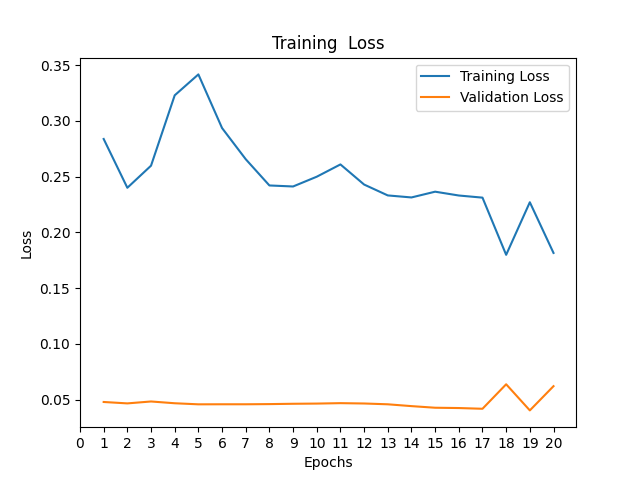
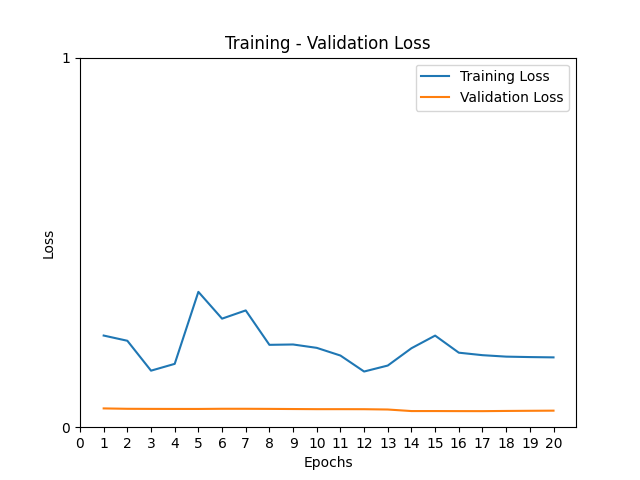
update graphs

diff --git a/src/train.py b/src/train.py
@@ -151,10 +151,11 @@ for epoch in range(epochs):
 epochss = range(1, 21)
 plt.plot(epochss, trlist, label = 'Training Loss')
 plt.plot(epochss, valloss, label = 'Validation Loss')
-plt.title('Training  Loss')
+plt.title('Training - Validation Loss')
 plt.xlabel('Epochs')
 plt.ylabel('Loss')
 plt.xticks(arange(0, 21, 1))
+plt.yticks(arange(0, 2, 1))
 plt.legend()
 plt.show()
 
@@ -164,6 +165,7 @@ plt.title('Training - Validation Accuracy')
 plt.xlabel('Epochs')
 plt.ylabel('Accuracy')
 plt.xticks(arange(0, 21, 1))
+plt.yticks(arange(0, 2, 1))
 plt.legend()
 plt.show()
 #print(f"Validation Accuracy {vaccuracy}")

diff --git a/README.md b/README.md
@@ -145,8 +145,8 @@ for epoch in range(epochs):
   <h2 align="center">Accuracy and Loss Graphs</h2>
 </p>
 <p align="left">
-  <img width="500" height="500" src="data/accura.png">
-  <img width=500" height="500" src="data/loss.png">
+  <img width="400" height="500" src="data/acc.png">
+  <img width=400" height="500" src="data/loss.png">
 </p>
 <p align="right">
   
